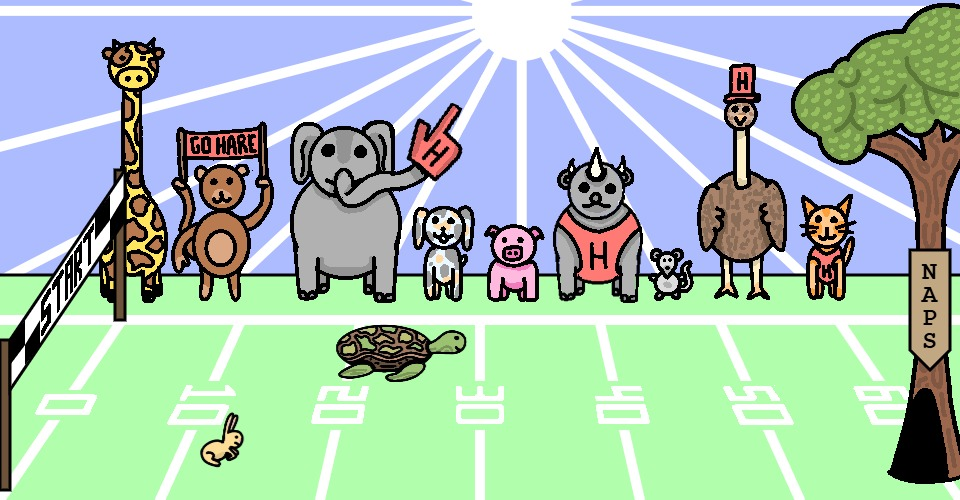
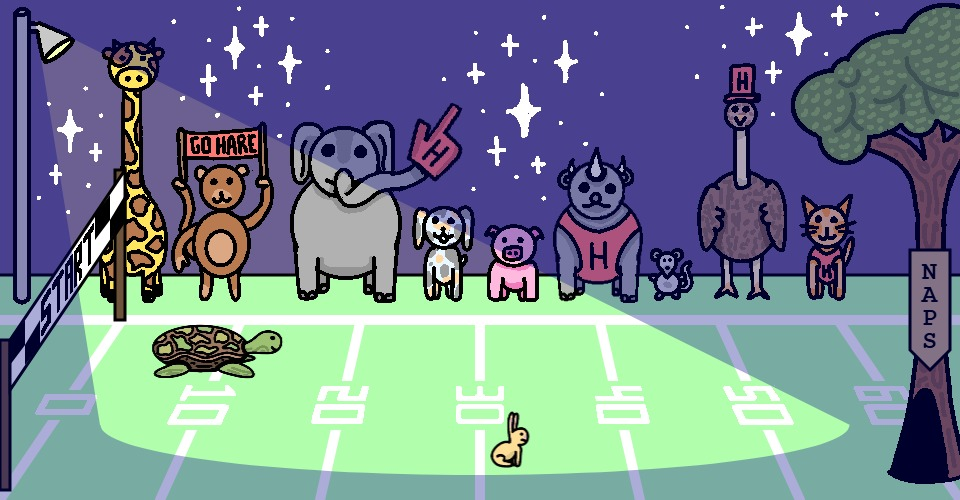
lamp and stars

diff --git a/clock.js b/clock.js
@@ -28,7 +28,7 @@ function draw_clock(obj) {
 
   skyChange = map(obj.hours, 0, 23, 0, 4)
 
-  if(obj.hours == 0) {
+  if(obj.hours == 0) { //setting lerpcolours between hours
     sky = midnight
   } else if(obj.hours == 12) {
     sky = midday
@@ -47,11 +47,11 @@ function draw_clock(obj) {
   sunX = map(obj.hours, 0, 23, -480, 1440)
   sunY = map(obj.hours, 0, 23, 500, 0)
 
-  if(obj.hours > 5 && obj.hours < 12) {
+  if(obj.hours > 4 && obj.hours < 12) { //sun ascent
     push()
     translate(sunX - 480, sunY - 500)//sun movement
     fill(255)
-    ellipse(480, 250, 100, 100)//sun
+    ellipse(480, 250, 100, 100)//sun graphic
     strokeWeight(10)
     stroke(255)
     line(480, 250, -100, 550)
@@ -60,8 +60,8 @@ function draw_clock(obj) {
     line(480, 250, 960, 0)
     line(480, 250, 480, 0)
     line(480, 250, 480, 550)
-    line(480, 250, -480, 250)
-    line(480, 250, 1440, 250)
+    line(480, 250, -580, 250)
+    line(480, 250, 1500, 250)
     line(480, 250, -480, 0)
     line(480, 250, -480, 500)
     line(480, 250, 1440, 0)
@@ -75,11 +75,11 @@ function draw_clock(obj) {
     line(480, 250, 640, 550)
     line(480, 250, 800, 550)
     pop()
-  } else if(obj.hours > 11 && obj.hours < 18) {
+  } else if(obj.hours > 11 && obj.hours < 19) { //sun descent
     push()
     translate(sunX - 480, -sunY)//sun movement
     fill(255)
-    ellipse(480, 250, 100, 100)//sun
+    ellipse(480, 250, 100, 100)//sun graphic
     strokeWeight(10)
     stroke(255)
     line(480, 250, -100, 550)
@@ -88,8 +88,8 @@ function draw_clock(obj) {
     line(480, 250, 960, 0)
     line(480, 250, 480, 0)
     line(480, 250, 480, 550)
-    line(480, 250, -480, 250)
-    line(480, 250, 1440, 250)
+    line(480, 250, -580, 250)
+    line(480, 250, 1500, 250)
     line(480, 250, -480, 0)
     line(480, 250, -480, 500)
     line(480, 250, 1440, 0)
@@ -123,6 +123,8 @@ function draw_clock(obj) {
 
   image(imgNumbers, 0, 0)
 
+  image(imgLamp, 0, 0)
+
   console.log(obj.seconds_until_alarm); //alarm setup
   
   if(obj.seconds_until_alarm < 0 || obj.seconds_until_alarm === undefined) {
@@ -146,7 +148,7 @@ function draw_clock(obj) {
     textFont('Courier New')
     text('WAKE UP YA STUPID RABBIT!!!', 250, 50, 700, 50)
     
-      if(crowdShake == 0){
+      if(crowdShake == 0){ //shakes spectators when alarm is going off
         image(imgSpectators, 0, 25)
         } else {
         image(imgSpectators, 0, 30)
@@ -272,7 +274,7 @@ function draw_clock(obj) {
   endShape(CLOSE)
   fill(0)
   noStroke()
-  beginShape() //checker pattern
+  beginShape() //checker pattern on banner
   vertex(10, 340)
   vertex(25, 320)
   vertex(25, 345)
@@ -293,51 +295,72 @@ function draw_clock(obj) {
   vertex(95, 240)
   endShape(CLOSE)
 
-  image(imgStart, 0, 0)
+  image(imgStart, 0, 0)//writing on start banner
 
   if(obj.minutes == 0) {
-    fill(255, 128, 132)//red
+    fill(255, 128, 132)//red confetti
     rect(100, confettiFall, 20, 20)
     rect(250, confettiFall - 350, 20, 20)
     rect(500, confettiFall - 400, 20, 20)
     rect(700, confettiFall - 100, 20, 20)
     rect(800, confettiFall - 250, 20, 20)
-    fill(249, 255, 128)//yellow
+    fill(249, 255, 128)//yellow confetti
     rect(300, confettiFall - 50, 20, 20)
     rect(100, confettiFall - 300, 20, 20)
     rect(400, confettiFall - 150, 20, 20)
     rect(750, confettiFall - 400, 20, 20)
     rect(900, confettiFall - 100, 20, 20)
-    fill(200, 128, 255)//purple
+    fill(200, 128, 255)//purple confetti
     rect(100, confettiFall - 200, 20, 20)
     rect(600, confettiFall, 20, 20)
     rect(400, confettiFall - 300, 20, 20)
     rect(650, confettiFall - 250, 20, 20)
     rect(500, confettiFall - 100, 20, 20)
-    fill(135, 255, 233)//teal
+    fill(135, 255, 233)//teal confetti
     rect(100, confettiFall - 400, 20, 20)
     rect(550, confettiFall - 300, 20, 20)
     rect(200, confettiFall - 100, 20, 20)
     rect(800, confettiFall, 20, 20)
     rect(300, confettiFall - 250, 20, 20)
 
-    confettiFall = confettiFall + 5
+    confettiFall = confettiFall + 5 //confetti falling
   } else {
-    confettiFall = 0
+    confettiFall = 0 //resets confetti
   }
 
   shadow = map(obj.hours, 0, 23, 0, 400)
 
+ if(obj.hours > 18) {
+    push()
+    angleMode(DEGREES)
+    beginClip({invert: true}) //lamp light
+    triangle(100, 425, 35, 20, 850, 425)
+    arc(475, 425, 749, 100, 0, 180)
+    endClip()
 
-  if(obj.hours > 17) {
     midnight.setAlpha(shadow-300)
+    midnight.setRed(0)
+    midnight.setGreen(0)
     fill(midnight)
-    rect(0, 0, 960, 500)
-  } else if(obj.hours < 6) {
+    rect(0, 0, 960, 500) //shadow on scene increasing
+    pop()
+
+    image(imgStars, 0, 0)
+  } else if(obj.hours < 5) {
+    push()
+    angleMode(DEGREES)
+    beginClip({invert: true}) //lamp light
+    triangle(100, 425, 35, 20, 850, 425)
+    arc(475, 425, 749, 100, 0, 180)
+    endClip()
+
     midnight.setAlpha(-shadow+100)
+    midnight.setRed(0)
+    midnight.setGreen(0)
     fill(midnight)
-    rect(0, 0, 960, 500)
+    rect(0, 0, 960, 500)//shadow on scene reducing
+    pop()
+
+    image(imgStars, 0, 0)
   }
-
-
 }

diff --git a/runner.js b/runner.js
@@ -39,6 +39,8 @@ function setup () {
   imgSpeech = loadImage('assets/speech.png')
   imgStart = loadImage('assets/start.png')
   imgNumbers = loadImage('assets/fieldnumbers.png')
+  imgLamp = loadImage('assets/lamp.png')
+  imgStars = loadImage('assets/stars.png')
 
   // this is true if debug.js is included
   if(debug_is_on) {

diff --git a/README.md b/README.md
@@ -18,3 +18,5 @@ Spectators now yell at hare to wake up when alarm is going off. Added nap sign t
 Confetti plays at the end of each hour. The sky cycles through a series of colours indicating the hour, including a night cycle which also applies a shadow to the setting.
 
 Travelling sun graphic added to background sky during day cycle. Fixed minor issue to sync hare with field lines.
+
+Added lamp that turns on during night cycle and lights part of the field, as well as stars. Slightly lengthened the sun cycle to better suit the colours.
